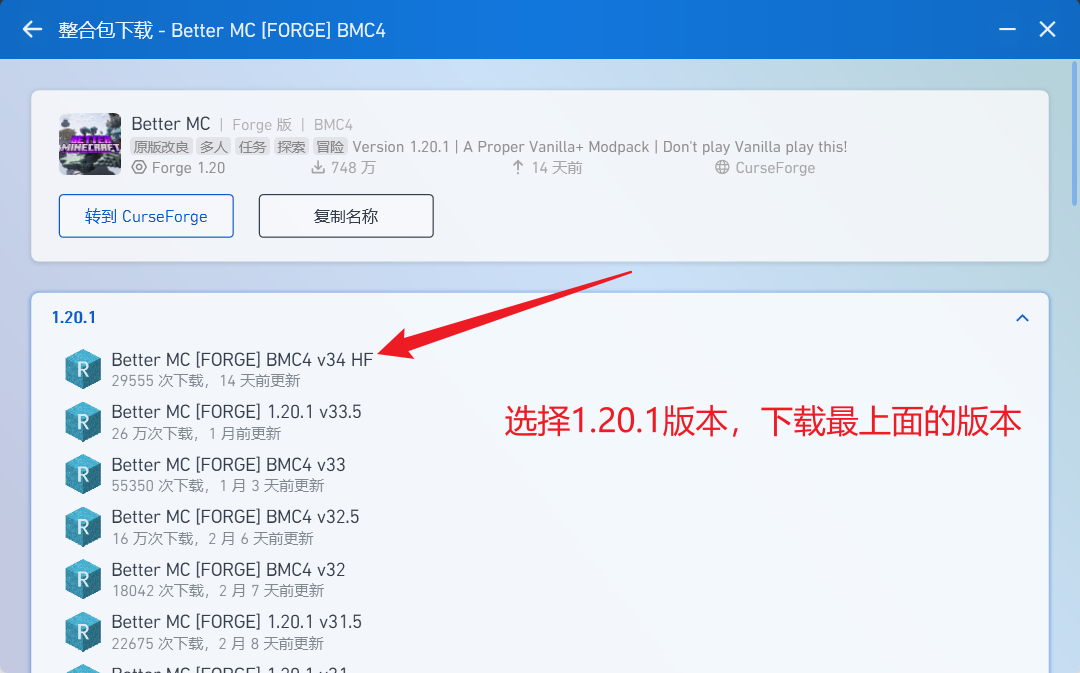
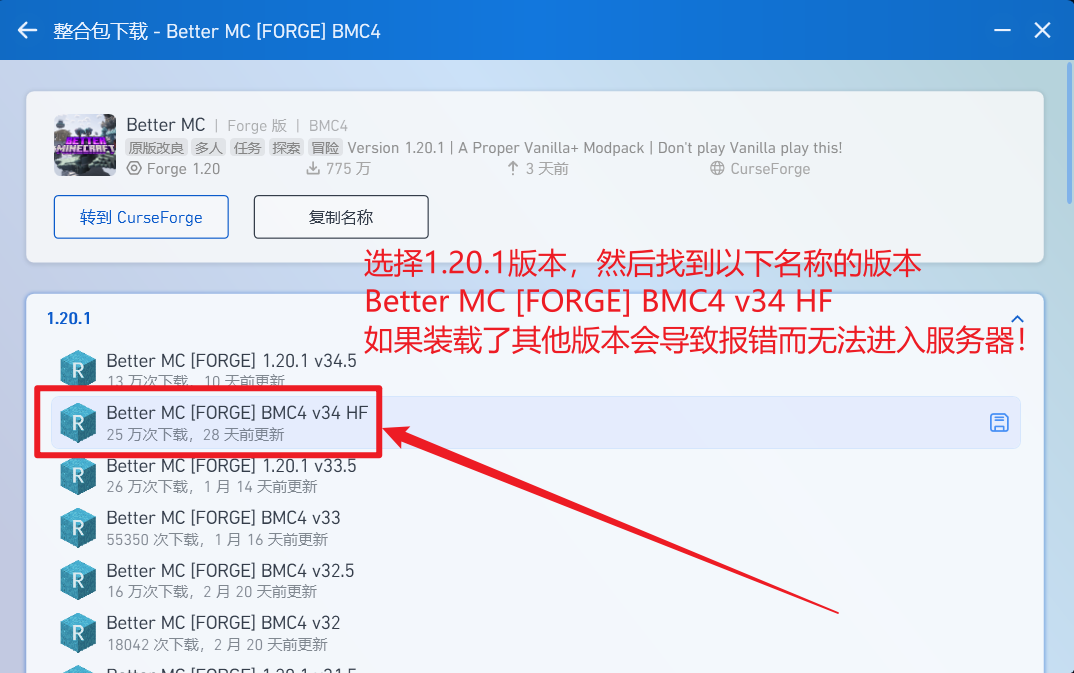
!84 更新社团公告 + 社团MC服务器 功能块 有关更新 * 补充遗漏内容 * 更新社团公告 * 社团MC服务器 功能块 有关更新

diff --git a/docs/en/announcement/index.md b/docs/en/announcement/index.md
@@ -1,22 +1,56 @@
 # Announcement
-### [Gitee established on December 4, 2022](https://gitee.com/TSGU-OSC/OSC_main/blob/master/event/active1/README.md)
+
+
+### [Gitee established time: December 4, 2022](https://gitee.com/TSGU-OSC/OSC_main/blob/master/event/active1/README.md)
+
 ### Official establishment of the club: June 25, 2023
+
 ### [Club welcome party: September 27, 2023](https://gitee.com/TSGU-OSC/OSC_main/blob/master/event/active2/README.md)
+
 ### [First technical lecture: October 16, 2023](https://gitee.com/TSGU-OSC/OSC_main/blob/master/event/active3/README.md)
+
 ### The First Programmer Day of OSC: October 24, 2023
+
 ### [How to use open source projects: December 5, 2023](https://gitee.com/TSGU-OSC/OSC_main/blob/master/event/active5/README.md)
+
 ### [Linux Beginner Training: December 8, 2023](https://gitee.com/TSGU-OSC/OSC_main/blob/master/event/active6/README.md)
+
 ### [Huawei Ascend AI National Tour: December 9, 2023](https://gitee.com/TSGU-OSC/OSC_main/blob/master/event/active8/README.md)
+
 ### [How to effectively utilize server resources: December 15, 2023](https://gitee.com/TSGU-OSC/OSC_main/blob/master/event/active7/README.md)
+
 ### [Open Atomic School Source Tour (Beijing Institute of Technology Station): January 6, 2024](https://gitee.com/TSGU-OSC/OSC_main/blob/master/event/active9/README.md)
-### The club management system was officially launched : March 4, 2024
-### HDD• Her power : March 8, 2024
-### Chinese Academy of Sciences 2024 Open source Summer launch meeting : March 10, 2024
+
+### The club management system was officially launched: March 4, 2024
+
+### HDD• Her power: March 8, 2024
+
+### Chinese Academy of Sciences 2024 Open source Summer launch meeting: March 10, 2024
+
 ### [Huawei Ascend AI Inspire Day : March 26, 2024](https://gitee.com/TSGU-OSC/OSC_main/blob/master/event/active10/README.md)
-### The club portal website was officially launched : April 20, 2024 
-### [World Intelligence Expo : June 20, 2024](https://gitee.com/TSGU-OSC/OSC_main/blob/master/event/active11/README.md)
-### [Openharmony Club 2024 Recruitment Activities：2024.9.21 - 2024.9.22](https://mp.weixin.qq.com/s/aAVoXFOFfJcUa1ZkVr8qzA)
-### [Openharmony Club 2024 New Member Welcome Party：2024.9.27](https://mp.weixin.qq.com/s/Fc2I0YecKWqeZht-kF8ufA)
-### [The Openharmony Club AI SIG group won the Bronze Award of Huawei Ascend AI Innovation Competition：2024.10.10](https://mp.weixin.qq.com/s/V2ljOXZpgHUZHMT0-Id2mw)
-### [Openharmony Club and Tianjin University of Science and Technology School of Artificial Intelligence exchange: Open source - the Romanticism of programmers：2024.10.17](https://mp.weixin.qq.com/s/L_F4VzPfvBK22IsGVzlu-A)
-### [Project experience sharing | BMF Bytedance multimedia framework By Jack Lau: Embracing open source is the romanticism of programmers：2024.10.22](https://mp.weixin.qq.com/s/prQk-RFvSsa1fVTDuXu_2g)
+
+### The club portal website was officially launched: April 20, 2024 
+
+### [World Intelligence Expo: June 20, 2024](https://gitee.com/TSGU-OSC/OSC_main/blob/master/event/active11/README.md)
+
+### [Openharmony Club 2024 Recruitment Activities: 2024.9.21 - 2024.9.22](https://mp.weixin.qq.com/s/aAVoXFOFfJcUa1ZkVr8qzA)
+
+### [Openharmony Club 2024 New Member Welcome Party: 2024.9.27](https://mp.weixin.qq.com/s/Fc2I0YecKWqeZht-kF8ufA)
+
+### [The Openharmony Club AI SIG group won the Bronze Award of Huawei Ascend AI Innovation Competition: 2024.10.10](https://mp.weixin.qq.com/s/V2ljOXZpgHUZHMT0-Id2mw)
+
+### Trial operation of production-education integrated information system: 2024.10.12
+
+### [Openharmony Club and Tianjin University of Science and Technology School of Artificial Intelligence exchange: Open source - the Romanticism of programmers: 2024.10.17](https://mp.weixin.qq.com/s/L_F4VzPfvBK22IsGVzlu-A)
+
+### [Project experience sharing | BMF Bytedance multimedia framework By Jack Lau: Embracing open source is the romanticism of programmers: 2024.10.22](https://mp.weixin.qq.com/s/prQk-RFvSsa1fVTDuXu_2g)
+
+### [The 9th China Open Source Annual Conference (COSCon'24): November 2-3, 2024](https://mp.weixin.qq.com/s/7GoY-etFRVsZ2FLEKW3rzg?poc_token=HOt_mGejpYvlfV4wmwxDyEaPP3p9fAHmRcUbgdlv)
+
+### [OpenAtom "Campus Tour" Meetup — Tianjin Sino-German University Station: November 16, 2024](https://mp.weixin.qq.com/s/ajZoU4L4n2RteRLIDI7ErQ)
+
+### [Tianjin Huawei Kunpeng Ecosystem Innovation Center Visit Report: In-Depth Exploration of Seamless Technology-Application Integration: December 12, 2024](https://mp.weixin.qq.com/s/n-Q2aYiDVdpGaG6Ys_fLpQ)
+
+### [2024 OpenAtom Developer Conference & Inaugural Open Source Technology Academic Conference: December 20-21, 2024](https://mp.weixin.qq.com/s/FWJbjCUBKZJgZNIgpsfS7Q)
+
+### [The 14th Deepin Developers and Users Conference (DDUC'24): December 21, 2024](https://mp.weixin.qq.com/s/taldILx_10v0IzH72BQZyQ)

diff --git a/docs/zh/announcement/index.md b/docs/zh/announcement/index.md
@@ -2,23 +2,55 @@
 
 
 ### [Gitee建立时间：2022.12.4](https://gitee.com/TSGU-OSC/OSC_main/blob/master/event/active1/README.md)
+
 ### 开源鸿蒙社正式成立：2023.6.25
+
 ### [开源鸿蒙社2023迎新晚会：2023.9.27](https://gitee.com/TSGU-OSC/OSC_main/blob/master/event/active2/README.md)
+
 ### [首次技术讲座：2023.10.16](https://gitee.com/TSGU-OSC/OSC_main/blob/master/event/active3/README.md)
+
 ### 开源鸿蒙社首届程序员节：2023.10.24
+
 ### [如何使用开源项目：2023.12.5](https://gitee.com/TSGU-OSC/OSC_main/blob/master/event/active5/README.md)
+
 ### [Linux入门培训：2023.12.8](https://gitee.com/TSGU-OSC/OSC_main/blob/master/event/active6/README.md)
+
 ### [华为昇腾AI全国行：2023.12.9](https://gitee.com/TSGU-OSC/OSC_main/blob/master/event/active8/README.md)
+
 ### [如何有效利用服务器资源：2023.12.15](https://gitee.com/TSGU-OSC/OSC_main/blob/master/event/active7/README.md)
+
 ### [开放原子校源行（北理工站）：2024.1.6](https://gitee.com/TSGU-OSC/OSC_main/blob/master/event/active9/README.md)
-### 社团管理系统正式上线 2024.3.4
-### HDD•她力量 2024.3.8
-### 中科院2024开源之夏启动会 2024.3.10 
+
+### 社团管理系统正式上线：2024.3.4
+
+### HDD•她力量：2024.3.8
+
+### 中科院2024开源之夏启动会：2024.3.10
+
 ### [华为昇腾AI创享日 : 2024.3.26](https://gitee.com/TSGU-OSC/OSC_main/blob/master/event/active10/README.md)  
-### 开源鸿蒙社门户网站正式上线 2024.4.20
-### [世界智能产业博览会 : 2024.6.20](https://gitee.com/TSGU-OSC/OSC_main/blob/master/event/active11/README.md)
+
+### 开源鸿蒙社门户网站正式上线：2024.4.20
+
+### [世界智能产业博览会：2024.6.20](https://gitee.com/TSGU-OSC/OSC_main/blob/master/event/active11/README.md)
+
 ### [开源鸿蒙社2024纳新活动：2024.9.21 - 2024.9.22](https://mp.weixin.qq.com/s/aAVoXFOFfJcUa1ZkVr8qzA)
+
 ### [开源鸿蒙社2024迎新晚会：2024.9.27](https://mp.weixin.qq.com/s/Fc2I0YecKWqeZht-kF8ufA)
+
 ### [开源鸿蒙社AI SIG组荣获华为昇腾AI创新大赛铜奖：2024.10.10](https://mp.weixin.qq.com/s/V2ljOXZpgHUZHMT0-Id2mw)
+
+### 产教融合信息系统试运行：2024.10.12
+
 ### [开源鸿蒙社与天津科技大学人工智能学院交流：开源—程序员的浪漫主义：2024.10.17](https://mp.weixin.qq.com/s/L_F4VzPfvBK22IsGVzlu-A)
+
 ### [项目经验分享｜BMF字节跳动多媒体框架 刘奇翰：拥抱开源是程序员的浪漫主义:2024.10.22](https://mp.weixin.qq.com/s/prQk-RFvSsa1fVTDuXu_2g)
+
+### [第九届中国开源年会(COSCon'24)：2024.11.2 - 2024.11.3](https://mp.weixin.qq.com/s/7GoY-etFRVsZ2FLEKW3rzg?poc_token=HOt_mGejpYvlfV4wmwxDyEaPP3p9fAHmRcUbgdlv)
+
+### [开放原子“校园行”Meetup——天津中德站：2024.11.16](https://mp.weixin.qq.com/s/ajZoU4L4n2RteRLIDI7ErQ)
+
+### [天津华为鲲鹏生态创新中心参观纪实：深度探索技术与应用的无缝对接：2024.12.12](https://mp.weixin.qq.com/s/n-Q2aYiDVdpGaG6Ys_fLpQ)
+
+### [2024开放原子开发者大会暨首届开源技术学术大会：2024.12.20 - 2024.12.21](https://mp.weixin.qq.com/s/FWJbjCUBKZJgZNIgpsfS7Q)
+
+### [第十四届deepin开发者与用户大会：2024.12.21](https://mp.weixin.qq.com/s/taldILx_10v0IzH72BQZyQ)

diff --git a/docs/zh/technical/Other/How_to_play_Minecraft_server.md b/docs/zh/technical/Other/How_to_play_Minecraft_server.md
@@ -20,17 +20,29 @@
 
 ### 下载服务器所需整合包
 
-在原版Minecraft的基础上，如果想体验更多玩法，可以通过添加Mod的形式（Mod可以理解为插件，但又不是插件）
+首先我们需要先了解一下什么是整合包：
 
-而将多个且大量的Mod整合在一起，就叫做整合包
+> 在原版Minecraft的基础上，如果想体验更多玩法，可以通过添加**Mod**的形式
+> 
+> Mod可以理解为插件，但又区别于插件，而插件在Minecraft中另有概念
+> 
+> 而将多个且大量的Mod整合在一起，就叫做整合包
 
 社团MC服务器并非原版服务器，而是装载了一个拥有三百多个Mod的大型整合包
 
 而由于MC的设计特点，如果连接带有Mod的服务器，需要本地游戏内装载有数量完全相同，版本完全相同的Mod才可以加入
 
-所以这边提供整合包的下载地址：
+并且这个整合包也在不断更新，所以需要下载服务器所加载的**特定版本**的整合包
 
-- 一个是基于CurseForge网站提供的官方下载地址：（可能需要魔法，且下载很慢）[CurseForge](https://www.curseforge.com/minecraft/modpacks/better-mc-forge-bmc4/files/5854101)
+**如果下载其他版本的整合包，会导致报错从而无法进入服务器！**
+
+这边提供该特定版本整合包的下载地址：
+
+社团服务器加载整合包的版本为：Better MC [FORGE] BMC4 v34 HF
+
+- 一个是基于CurseForge网站提供的官方下载地址：（可能需要魔法，且下载很慢）
+  
+  [CurseForge](https://www.curseforge.com/minecraft/modpacks/better-mc-forge-bmc4/files/5854101)
 
 - 另一个是基于非官方启动器的整合包下载界面：（我这里以PCL II为例）
 
@@ -38,7 +50,9 @@
 
 ![img2](../../../public/technical/Other/How_to_play_Minecraft/img2.png)
 
-- 还有一个是基于社团存储服务器下载：（需要在校园网环境下操作）[社团Alist存储服务器](http://172.19.15.13:5244/d/root/Resource/JavaSIG/Better%20MC%20%5BFORGE%5D%20BMC4%20v34%20HF.zip?sign=EcFL0BsYArvXz1DWhqusq84e7Q0vgsoJggZqfMgMCKA=:0)
+- 还有一个是基于社团存储服务器下载：（需要在校园网环境下操作）
+  
+  [社团Alist存储服务器](http://172.19.15.13:5244/d/root/Resource/JavaSIG/Better%20MC%20%5BFORGE%5D%20BMC4%20v34%20HF.zip?sign=EcFL0BsYArvXz1DWhqusq84e7Q0vgsoJggZqfMgMCKA=:0)
 
 更推荐使用非官方启动器自带的下载界面下载，因为会自动帮你处理，处理完毕之后点击开始游戏即可
 

diff --git a/docs/en/index.md b/docs/en/index.md
@@ -41,7 +41,7 @@ features:
     icon: ✏  
   - title: Minecraft In Club
     details: The Club MC Server provides a quality and fun Minecraft multiplayer environment that allows club members to relax while studying and working, while facilitating communication.
-    link: https://gitee.com/TSGU-OSC/OSC_main/blob/master/blog/How_to_play_Minecraft/How_to_play_Minecraft_server.md
+    link: https://osc.tsguas.cn/technical/Other/How_to_play_Minecraft_server.html
     icon: 📦
     
   # - title: GitLab

diff --git a/docs/zh/index.md b/docs/zh/index.md
@@ -42,7 +42,7 @@ features:
     icon: ✏
   - title: 社团MC服务器
     details: 社团MC服务器提供了一个优质且有趣的Minecraft多人游戏环境，让社团成员在学习工作之余也可以放松一下，同时促进交流。
-    link: https://gitee.com/TSGU-OSC/OSC_main/blob/master/blog/How_to_play_Minecraft/How_to_play_Minecraft_server.md
+    link: https://osc.tsguas.cn/technical/Other/How_to_play_Minecraft_server.html
     icon: 📦
     
   # - title: 社团GitLab仓库
